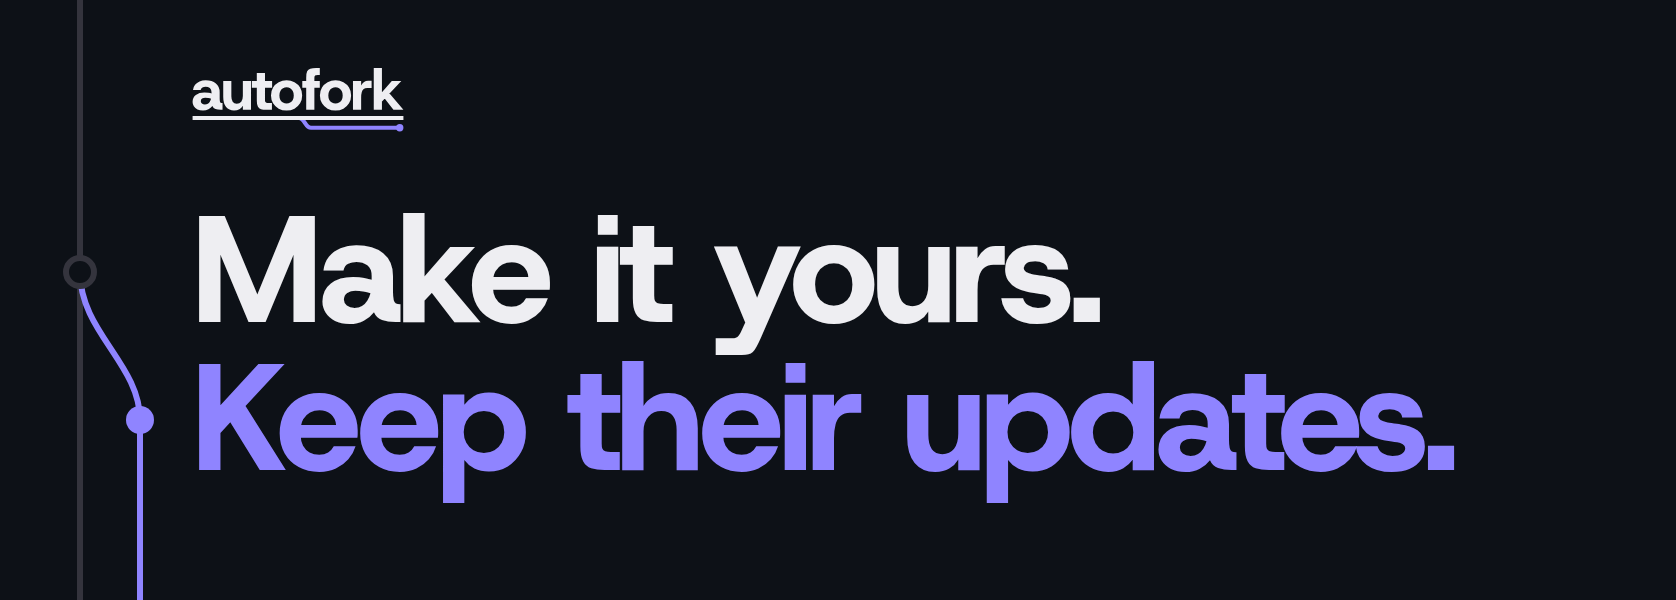
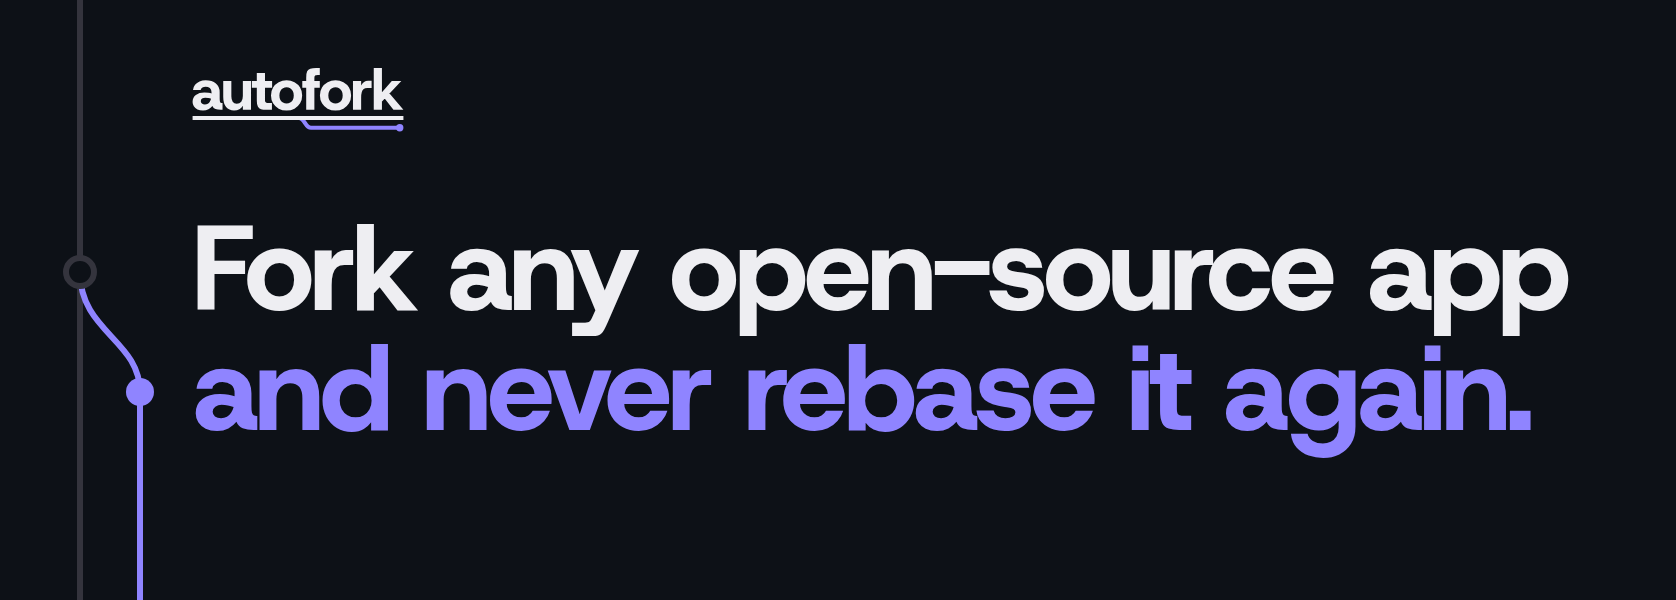
Link preview, GitHub social preview and README headers carry the new pitch ("Fork any open-source app and never rebase it again." over "Personal forks of open-source apps that update themselves."); messaging's sections, meta, OG and words follow, and the launch post ends its setup on the headline (d

Changed region(s): [[0.031, 0.36, 0.9618, 0.84]]

diff --git a/brand/readme/header-dark.html b/brand/readme/header-dark.html
@@ -5,11 +5,11 @@
 <body class="dark">
 <svg class="g" viewBox="0 0 838 300">
   <path class="trunk" d="M40 0V300"/>
-  <path class="yours" d="M40 136C40 166 70 182 70 210V300"/>
+  <path class="yours" d="M40 136C40 166 70 170 70 196V300"/>
   <circle class="ring" cx="40" cy="136" r="7"/>
-  <circle class="dot" cx="70" cy="210" r="7"/>
+  <circle class="dot" cx="70" cy="196" r="7"/>
 </svg>
 <img class="wm" src="../logo/autofork-dark.svg" alt="">
-<h1><span>Make it yours.</span><span class="you">Keep their updates.</span></h1>
+<h1><span>Fork any open-source app</span><span class="you">and never rebase it again.</span></h1>
 </body>
 </html>

diff --git a/brand/readme/header-light.html b/brand/readme/header-light.html
@@ -5,11 +5,11 @@
 <body class="light">
 <svg class="g" viewBox="0 0 838 300">
   <path class="trunk" d="M40 0V300"/>
-  <path class="yours" d="M40 136C40 166 70 182 70 210V300"/>
+  <path class="yours" d="M40 136C40 166 70 170 70 196V300"/>
   <circle class="ring" cx="40" cy="136" r="7"/>
-  <circle class="dot" cx="70" cy="210" r="7"/>
+  <circle class="dot" cx="70" cy="196" r="7"/>
 </svg>
 <img class="wm" src="../logo/autofork.svg" alt="">
-<h1><span>Make it yours.</span><span class="you">Keep their updates.</span></h1>
+<h1><span>Fork any open-source app</span><span class="you">and never rebase it again.</span></h1>
 </body>
 </html>

diff --git a/brand/readme/header.css b/brand/readme/header.css
@@ -9,5 +9,5 @@ svg.g { position: absolute; inset: 0; }
 .ring { fill: var(--bg); stroke: var(--trunk); stroke-width: 3; }
 .dot { fill: var(--you); }
 .wm { position: absolute; left: 96px; top: 34px; height: 32px; }
-h1 { position: absolute; left: 96px; top: 98px; margin: 0; font-size: 76px; line-height: .98; letter-spacing: -0.028em; font-weight: 800; }
+h1 { position: absolute; left: 96px; top: 104px; margin: 0; font-size: 60px; line-height: 1; white-space: nowrap; letter-spacing: -0.028em; font-weight: 800; }
 h1 span { display: block; } h1 .you { color: var(--you); }

diff --git a/brand/copy/MESSAGING.md b/brand/copy/MESSAGING.md
@@ -46,17 +46,17 @@ Nothing else above the fold. No command, no diagram, no second example.
 
 Bassim, Oct 13: "too many sections on the page... a lot of reading... We could close it down, make it cleaner, simpler, still have really nice, beautiful, rich visualizations." Five blocks, each a headline, at most one line, and one moving visual. A git graph runs down the left edge the whole way: their line with commits and releases, yours branching off at the headline, each release merging into yours, every section hanging off yours. It grows as you scroll.
 
-1. **It keeps what you meant.**
-   Line: Your change is saved as what you asked for, not only as code. When they rewrite things or ship something new, the agent rebuilds yours on top of theirs.
+1. **Your change is kept in plain words.**
+   Line: Each new release, your changes go back on top. When one no longer fits their new code, an agent rebuilds it from your words.
    Visual: "always show context usage" and its PATCH.md intent, then three T3 Code releases that play in turn: it goes back on as is; they redo the composer and the agent rebuilds yours into it; they add a usage meter and yours builds on it. This is the intent line Bassim wants weighed most: whatever T3 Code ships, the patch knows what you meant and takes the good from theirs.
    Footnote: An example on T3 Code. If they ship exactly what you asked for, yours pauses and you decide.
 
-2. **Mine, today.**
-   Line: My T3 Code fork took 156 commits from T3 Code in its first two days. One change broke on day one and the agent rebuilt it. (`facts.json`.)
+2. **My forks, today.**
+   Line: My T3 Code fork took 156 commits from T3 Code in its first two days, and I never rebased it. One change broke on day one and the agent rebuilt it. (`facts.json`; every sync commit on the fork is autofork's.)
    Visual: T3 Code transcribed from its source (apps/web), threads you can switch, and my context-usage button in the composer, which toggles compact-before-send like the real one. Under it, the four other forks as rows with their icons.
 
-3. **Yours.**
-   Line: The fork lives in your GitHub and runs in your own GitHub Actions, on your own plan. Free on public forks.
+3. **It runs in your GitHub.**
+   Line: Your fork lives in your GitHub account and updates itself in its own GitHub Actions, on the ChatGPT or Claude plan you already pay for. Free on public forks.
    Visual: the fork's GitHub header, then "Rather run it yourself? The engine is open source." and `npx skills add AVGVSTVS96/autofork`.
 
 4. **How it got here.** The lineage as a graph, labels only: pi-patcher (May) and PATCH.md (June) on the main line, experimental forks branching off it (herdr July, Claude Code plugins Oct 4, Buzz Oct 6, T3 Code Oct 10), merging back into autofork (October).
@@ -75,35 +75,39 @@ The site ships the same day as the product. These lines describe the product Bas
 
 ## Meta
 
-- **Title:** autofork: make it yours, keep their updates
-- **Description:** Name an open source app and what you'd change. Every new release arrives with your changes already in it.
+- **Title:** autofork: fork any open-source app and never rebase it again
+- **Description:** Personal forks of open-source apps that update themselves. Each new release, your changes go back on top, and an agent rebuilds any that break.
 - **Site:** https://autofork.com (autofork.dev redirects to it)
-- **GitHub repo description:** Make it yours, keep their updates. Your fork gets every release; when one breaks a change, an agent rebuilds it.
+- **GitHub repo description (autofork):** Fork any open-source app and never rebase it again. Personal forks that update themselves: your changes go back on top of every release, and an agent rebuilds any that break.
+- **GitHub repo description (autofork-app):** The app behind autofork.com: name an open-source app and what you'd change, and get a personal fork that updates itself.
+- **npm and package.json description:** Fork any open-source app and never rebase it again. Your changes go back on top of every release, and an agent rebuilds any that break.
 
 ## OG image (1200×630)
 
-- **Big:** Make it yours. / Keep their updates.
+- **Big:** Fork any open-source app / and never rebase it again. Four rows, balanced; the second sentence half in your color.
+- **Under it:** Personal forks of open-source apps that update themselves.
 - **Small:** autofork.com
-- **Alt:** autofork: Make it yours. Keep their updates.
-- **The composer**, once: T3 Code, always show context usage, Fork it.
+- **Alt:** autofork: Fork any open-source app and never rebase it again. Personal forks of open-source apps that update themselves.
 - **The T3 Code fork's card**, three true moments from `facts.json` and `launch.md`, newest on top: 4 changes on top, ready for their next release; every change kept, +156 commits, Oct 12; rebuilt by the agent, a change broke on day one, +383 commits, Oct 10.
+
+The composer left the image when the pitch got longer: the headline and its sub line need the room, and the card already shows a fork taking releases. The same file renders the GitHub social preview at 1280×640.
 
 No line appears twice (Bassim, Oct 13: "the open graph image repeats itself... that doesn't look all that good"). Keep the bottom fifth clear for X's title bar.
 
 ## What it isn't
 
 - **Not nightly, not a schedule.** It follows the app's releases by default (skipping pre-releases); a branch is an option. The hourly check is git only. Never write "every night" or "nightly". Bassim: "It should just be based on full fucking releases."
-- **Not hands-off forever.** If a rebuilt change fails the fork's checks, nothing lands. Never "maintains itself", "zero maintenance", "never breaks".
+- **Not hands-off forever.** If a rebuilt change fails the fork's checks, nothing lands. "Update themselves" is the sub line and true: the fork takes each release on its own. Beyond it, never "maintains itself", "zero maintenance", "never breaks".
 - **Not an agent on every release.** Changes that still fit go on with git. The agent runs only when one breaks.
 - **Not API billing.** It runs on the plan the user already has. Bassim: "Nobody should ever be using Claude models with API prices."
 - **Not hands-off when they catch up.** When the original ships its own version of a change, autofork pauses it and asks. It never quietly picks for you.
-- **Not for hackers first.** No CLI above section 7.
+- **Not for hackers first.** No CLI above section 3.
 
 ## Words
 
 Plain words, like a person who built it. Short sentences, real numbers.
 
-- On the site, for everyone: fork, change, release, update, rebuild, your GitHub, your plan. The original's makers are "they" ("their updates", "they ship"), or the app's name. Not "upstream" on the page, except in footnotes and the real issue title. "Patch" appears once, in section 3, where it's the real file.
+- On the site, for everyone: fork, change, release, update, rebuild, your GitHub, your plan. "Rebase" appears in the headline and the proof line ("I never rebased it"), nowhere else on the page. "Open-source" takes its hyphen before a noun, and never breaks across lines. The original's makers are "they" ("their updates", "they ship"), or the app's name. Not "upstream" on the page, except in footnotes and the real issue title. "Patch" appears once, in section 3, where it's the real file.
 - `PATCH.md`, `heal`, `verify`, `follow`, `.autofork/` belong in the README and section 6, not above it.
 - Only the managed platform is "coming soon". Not "waitlist" on the page.
 - The user picks: "your fork", "what you'd change". Never a role we hand them.

diff --git a/brand/copy/launch.md b/brand/copy/launch.md
@@ -1,20 +1,20 @@
 # autofork launch
 
-The X post, its link reply and the visual. Bassim's voice: lowercase, problem first, greentext, link in the first reply. Every number comes from `copy/facts.json`. The post scored 0 ("no tells") in delvish.
+The X post, its link reply and the visual. The pitch is the site's: "Fork any open-source app and never rebase it again." over "Personal forks of open-source apps that update themselves." (`copy/MESSAGING.md`). Bassim's voice: lowercase, problem first, greentext, link in the first reply. Every number comes from `copy/facts.json`. The post scored 0 ("no tells") in delvish.
 
 ## The post
 
 ```
 t3 code's readme says big features won't be merged. it also says you should have everything you need to fork it
 
-but a fork with your changes falls behind every release they ship. so i made autofork
+but keep a fork with your changes and you're rebasing it on every release they ship. so i made autofork: fork any open-source app and never rebase it again
 
-> name an open source app and what you'd change. sign in with chatgpt or claude and your plan does the work
-> your fork lives in your github and runs in your own github actions, free on public repos
-> every release, your changes go back on top. when one breaks, an agent rebuilds it from what you asked for
+> name an app and what you'd change. sign in with chatgpt or claude and an agent builds it into your fork
+> your change is saved in plain words. every release it goes back on top, and when one breaks, the agent rebuilds it from your words
+> your fork lives in your github and runs in its own github actions on your plan, free on public repos
 > if they ship their own version of your change, yours pauses until you pick
 
-my t3 code fork took 156 upstream commits in its first 2 days. one change broke on day one and the agent rebuilt it
+my t3 code fork took 156 upstream commits in its first 2 days and i never rebased it. one change broke on day one and the agent rebuilt it
 
 link in replies
 ```
@@ -22,11 +22,11 @@ link in replies
 Why each line is safe to say:
 
 - Line one is T3 Code's README: "Big features will not be." and "we want you to have everything you need to fork and build the editor that you want." A stranger who uses T3 Code (27k stars) gets it without knowing Bassim.
-- Line two is the reason it exists, in Bassim's terms: a fork always keeps your changes; what it loses is their updates.
-- "sign in with chatgpt or claude": both are live, and the agent runs in the user's own GitHub Actions. Actions are free on public repos (GitHub's docs).
-- "rebuilds it from what you asked for": the agent rebuilds a broken change from its `PATCH.md`, which holds the request in plain words.
+- Line two is the reason it exists, in Bassim's terms: a fork always keeps your changes; what it costs is a rebase every time they ship. It ends on the site's headline, word for word.
+- "sign in with chatgpt or claude and an agent builds it into your fork": both are live (with GitHub sign-in for the fork itself), and the agent runs in the fork's own GitHub Actions. Actions are free on public repos (GitHub's docs).
+- "saved in plain words ... goes back on top ... rebuilds it from your words": each change is a `PATCH.md` (the request in plain words) plus its diff. On a release the diff goes on with git; only when it no longer applies does the agent rebuild it from the `PATCH.md`.
 - "yours pauses until you pick": the engine stops applying it, the fork takes their version, and an issue opens (`context-usage: upstream does this now`). Deleting the folder keeps theirs; editing `PATCH.md` brings yours back.
-- The last line is the T3 Code fork in `facts.json`. Its first sync (Oct 10, `85b3a1c`, "healed window-title") jumped 383 upstream commits and `window-title` no longer applied, so the agent rebuilt it from its `PATCH.md` (`heals: 1`). From that sync to the last one (`9afde1c` to `8f25cf9`, Oct 10 to Oct 12) upstream moved 156 commits (`upstreamCommitsAbsorbed`) and every change stayed on. The earlier "kept all 3 changes" was out: `context-usage` only went in on Oct 12 and rode through the last 3 of those 156 commits, and the fork holds 4 changes now (`app-name` landed Oct 13).
+- The last line is the T3 Code fork in `facts.json`. "i never rebased it": every sync commit on the fork (`syncCommits`) is autofork's own. Its first sync (Oct 10, `85b3a1c`, "healed window-title") jumped 383 upstream commits and `window-title` no longer applied, so the agent rebuilt it from its `PATCH.md` (`heals: 1`). From that sync to the last one (`9afde1c` to `8f25cf9`, Oct 10 to Oct 12) upstream moved 156 commits (`upstreamCommitsAbsorbed`) and every change stayed on. The earlier "kept all 3 changes" was out: `context-usage` only went in on Oct 12 and rode through the last 3 of those 156 commits, and the fork holds 4 changes now (`app-name` landed Oct 13).
 
 ## First reply
 
